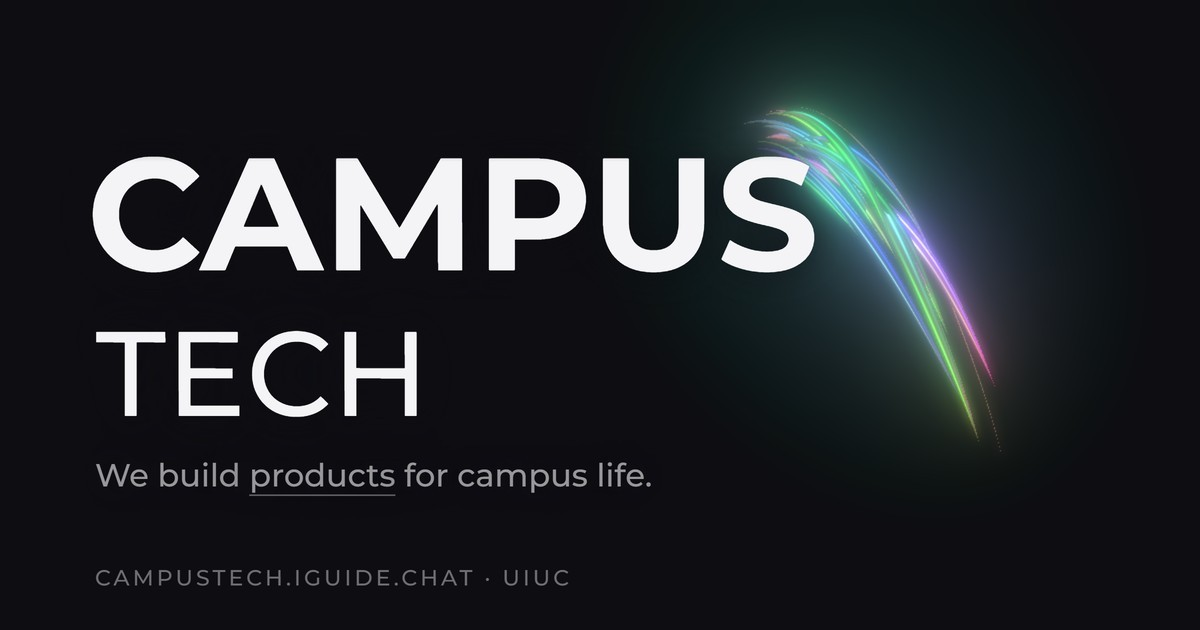
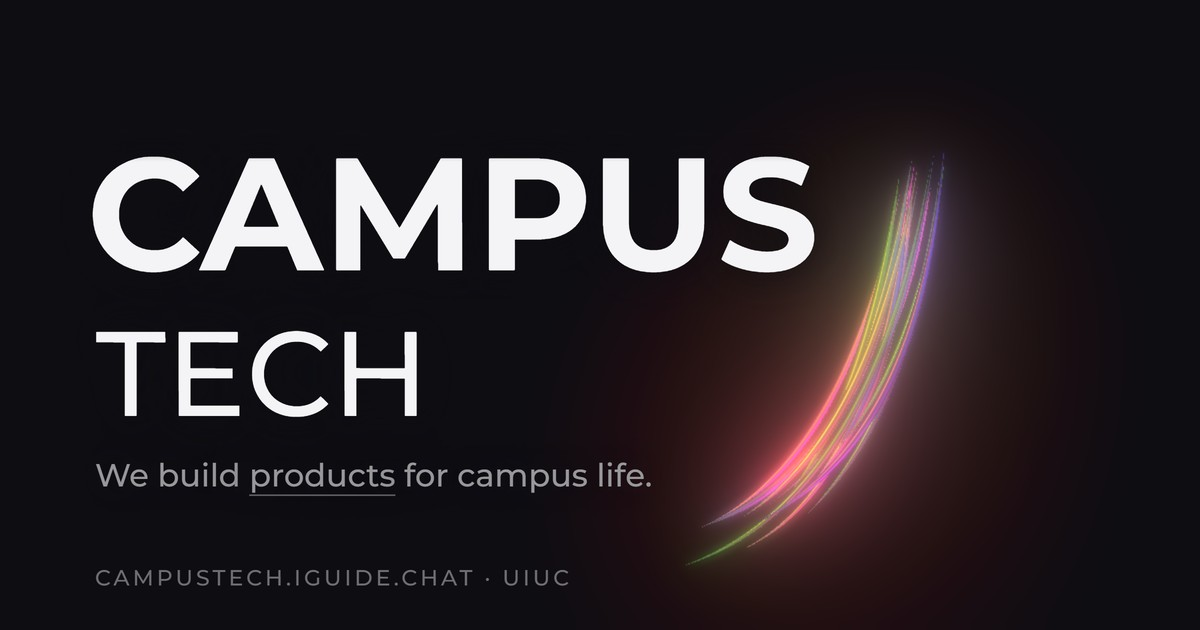
feat: link preview tubes draw an upward arc, lower left to upper right
og.jpg is now candidate A1: the cursor draws a quadratic stroke and the
tubes trail it. og_capture.py gains a stroke mode (OG_STROKE), sweep
variants (OG_PHASE, OG_SWEEP) and OG_DEBUG, and keeps only balanced
candidates.

Changed region(s): [[0.555, 0.0603, 0.8633, 0.9651]]

diff --git a/tools/images/og_capture.py b/tools/images/og_capture.py
@@ -4,6 +4,13 @@ lockup with the actual neon tubes, nav and cord hidden.
     python tools/images/og_capture.py          # writes candidates to tools/images/og-candidates/
     python tools/images/og_capture.py 2        # keeps candidate 2 as assets/og.jpg
 
+Only balanced candidates are kept: the text starts as far from the left edge as the tubes'
+haze ends from the right. The current og.jpg is an upward arc from lower left to upper right:
+
+    OG_STROKE=320,280,450,275,470,45 python tools/images/og_capture.py   # then keep the first
+    OG_PHASE=1.7 OG_SWEEP=430,70,100 python tools/images/og_capture.py   # free swirls instead
+    OG_DEBUG=1 ...                                                         # also save rejects
+
 Uses the installed Chrome with a window, so the tubes render on the GPU.
 """
 
@@ -11,6 +18,7 @@ import functools
 import http.server
 import io
 import math
+import os
 import socketserver
 import sys
 import threading
@@ -77,21 +85,55 @@ def main():
         }""")
         # Sweep the cursor beside the lockup so the tubes swirl there. Kept left of the edge:
         # their haze must end about as far from the right edge as the text starts from the left.
-        n = 0
-        for a in range(0, 160):
-            t = a / 10
-            page.mouse.move(430 + 70 * math.cos(t), 160 + 100 * math.sin(t * 1.3), steps=2)
-            page.wait_for_timeout(16)
-            if a >= 40 and a % 12 == 4:
+        # Snapshot often; keep only balanced cards (haze off the edge, margins within 30px).
+        for old in CANDIDATES.glob("og-*.jpg"):
+            old.unlink()
+        n = shots = 0
+
+        def snap(note=""):
+            nonlocal n, shots
+            shots += 1
+            with Image.open(io.BytesIO(page.screenshot())) as im:
+                card = im.convert("RGB").resize((1200, 630), Image.LANCZOS)
+            left, right = margins(card)
+            if right > 0 and abs(left - right) <= 30:
                 n += 1
-                with Image.open(io.BytesIO(page.screenshot())) as im:
-                    card = im.convert("RGB").resize((1200, 630), Image.LANCZOS)
                 card.save(CANDIDATES / f"og-{n}.jpg", "JPEG", quality=90)
-                left, right = margins(card)
-                print(f"  og-{n}.jpg  margins left {left}px, right {right}px (haze counts as content)")
+                print(f"  og-{n}.jpg  margins left {left}px, right {right}px (haze counts as content) {note}")
+            elif os.environ.get("OG_DEBUG"):
+                card.save(CANDIDATES / f"rejected-{shots}.jpg", "JPEG", quality=90)
+                print(f"  rejected-{shots}.jpg  margins left {left}px, right {right}px {note}")
+
+        stroke = os.environ.get("OG_STROKE")
+        if stroke:
+            # Draw one shape: the tubes trail the cursor, so they take the path it just drew.
+            # OG_STROKE="x0,y0,cx,cy,x1,y1" is a quadratic curve in CSS px; e.g. lower left to
+            # upper right, bending upward: start, a control point low on the right, end high.
+            x0, y0, qx, qy, x1, y1 = map(float, stroke.split(","))
+            for frames in (14, 20, 28, 38):
+                page.mouse.move(x0, y0, steps=8)
+                page.wait_for_timeout(1800)  # let the trail gather at the start
+                for i in range(frames + 1):
+                    u = i / frames
+                    page.mouse.move((1 - u) ** 2 * x0 + 2 * u * (1 - u) * qx + u * u * x1,
+                                    (1 - u) ** 2 * y0 + 2 * u * (1 - u) * qy + u * u * y1)
+                    page.wait_for_timeout(16)
+                for after in (0, 3, 6, 10):
+                    page.wait_for_timeout(16 * after)
+                    snap(f"stroke {frames} frames, +{after}")
+        else:
+            # Other poses: OG_PHASE (start of the loop), OG_SWEEP="cx,rx,ry" (its centre and size, CSS px).
+            phase = float(os.environ.get("OG_PHASE", "0"))
+            cx, rx, ry = map(float, os.environ.get("OG_SWEEP", "430,70,100").split(","))
+            for a in range(0, 400):
+                t = a / 10 + phase
+                page.mouse.move(cx + rx * math.cos(t), 160 + ry * math.sin(t * 1.3), steps=2)
+                page.wait_for_timeout(16)
+                if a >= 40 and a % 6 == 4:
+                    snap()
         browser.close()
     server.shutdown()
-    print(f"wrote {n} candidates to {CANDIDATES}; keep one whose margins match")
+    print(f"kept {n} balanced candidates of {shots} snapshots in {CANDIDATES}")
 
 
 if __name__ == "__main__":
